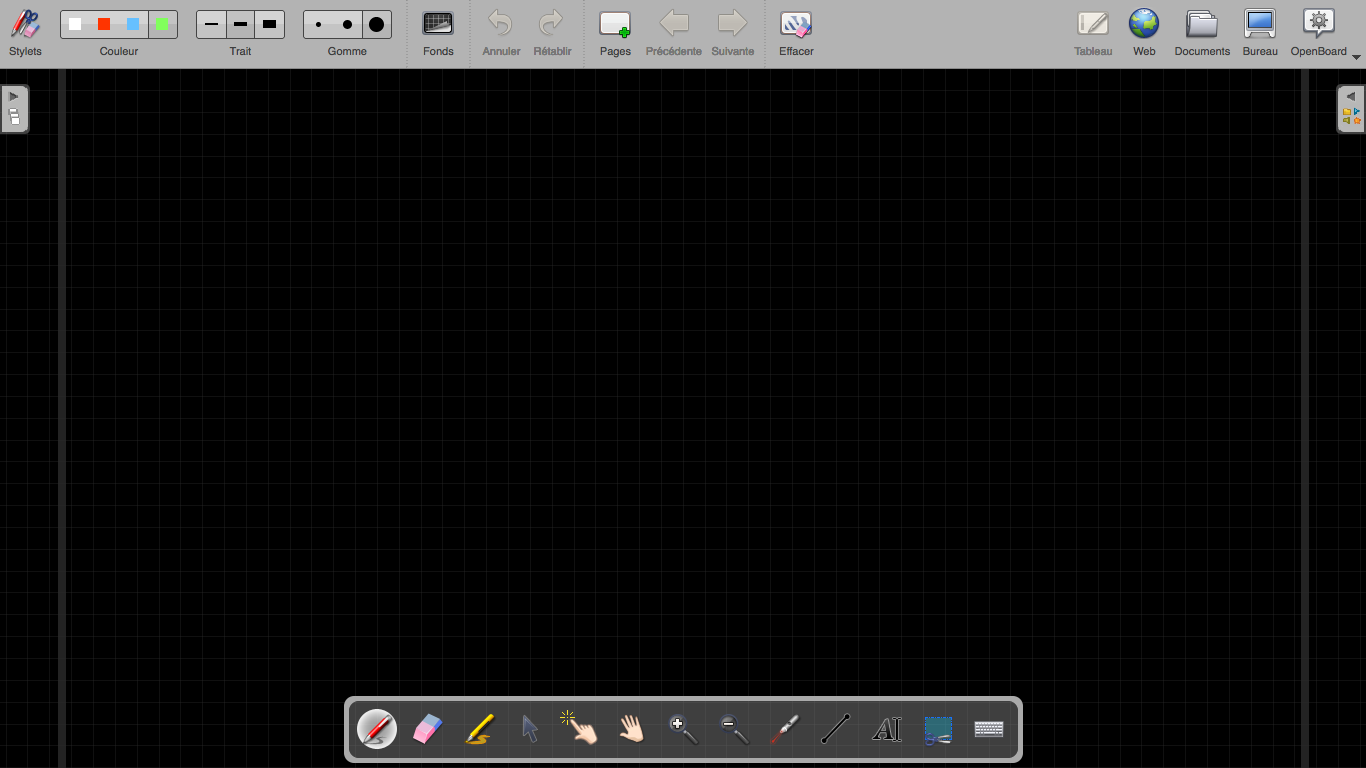
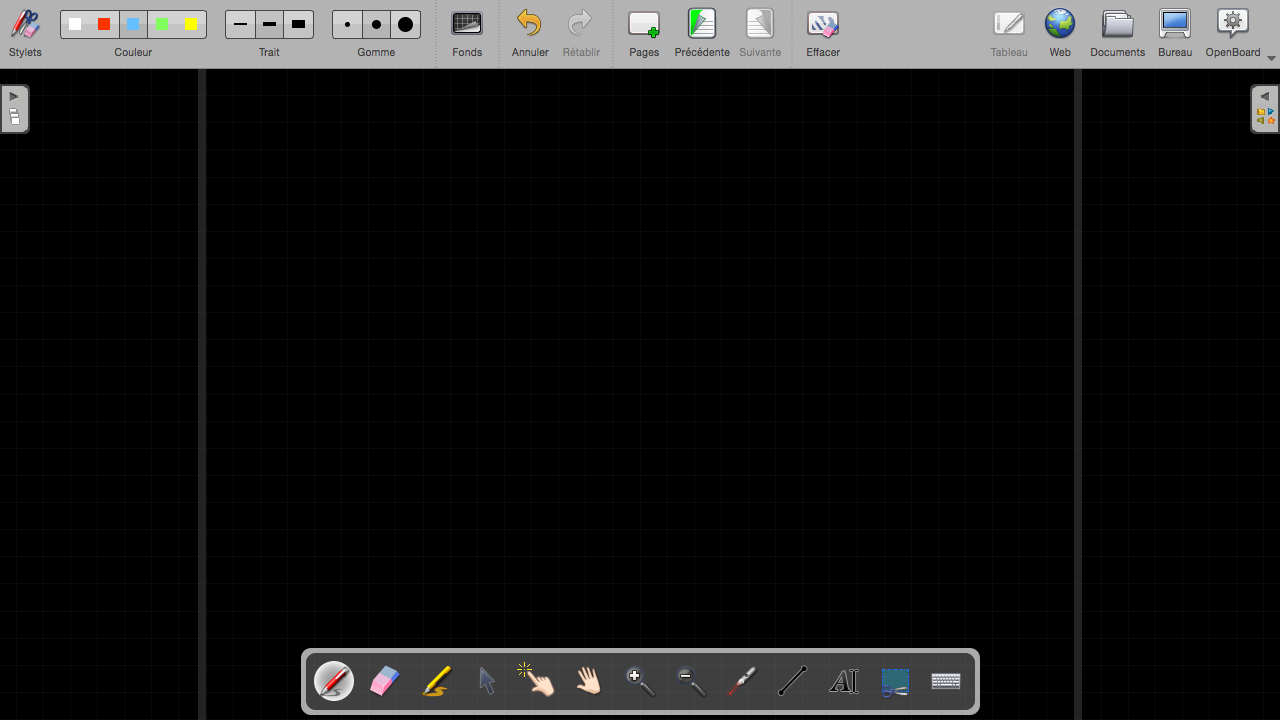
Nouveaux contenus du 9 juin

Changed region(s): [[0.0, 0.0, 1.0, 1.0], [0.2188, 0.8861, 0.7812, 1.0]]

diff --git a/app/about.html b/app/about.html
@@ -68,16 +68,21 @@
       <div class="">
         <h2>A propos d'OpenBoard</h2>
         <p>OpenBoard est un tableau blanc interactif open source et multiplateforme. OpenBoard est conçu principalement pour être utilisé dans des écoles ou universités et est compatible avec toutes sortes de configurations (tableau numérique interactif, tablette graphique + projecteur, ...).</p>
-        <p>OpenBoard est un fork de Open-Sankoré, qui lui-même était basé sur Uniboard.</p>
+
+        <h3>D'où vient il ?</h3>
+        <p>OpenBoard est un fork de Open-Sankoré 2.0, qui lui-même était basé sur Uniboard. Ce fork a été créé pour recentrer le logiciel sur son cœur de métier originel, à savoir le travail de l'enseignant dans sa classe, ceci en privilégiant la simplicité d’utilisation. L’évolution de ce logiciel aura donc lieu dans le respect de ces deux principes de base.</p>
         
         <h3>Multiplateforme</h3>
         <p>OpenBoard est compatible avec Windows (7+), OS X (10.9+) et Linux (testé sur Ubuntu 14.04 et 16.04).</p>
 
-        <h3>Qui est impliqué?</h3>
-        <p>Actuellement, OpenBoard est maintenu par le département de l'instruction publique (DIP) de l'État de Genève, en Suisse. L'Université de Lausanne, à l'origine de la première version d'Uniboard en 2003 a récemment rejoint le projet.</p>
-        <p>L'intérêt pour OpenBoard croît rapidement en Suisse, mais aussi en Europe et en Amérique du Nord. Une association à but non lucratif va bientôt être créée. Cet association aura pour but de promouvoir OpenBoard et son développement open source, et de rassembler les parties intéressées.</p> 
+        <h3>Qui est impliqué ?</h3>
+        <p>Actuellement, OpenBoard est maintenu par le département de l'instruction publique (DIP) de l'État de Genève, en Suisse. L'Université de Lausanne, à l'origine de la première version d'Uniboard en 2003 a récemment rejoint le projet via une aide logistique et financière.</p>
+        <p>Une rencontre a eu lieu en juin 2016 entre des représentants des unis de Lausanne, Neuchâtel, Fribourg et Genève, des départements de l’instruction publique du canton de Genève et du Jura ainsi que de divers établissements du canton de Vaud (Suisse) pour réfléchir ensemble à l’évolution souhaitée d’OpenBoard.</p>
 
-        <p class="timestamp">3 juin 2016</p>
+        <h3>Quel futur ?</h3>
+        <p>L'intérêt pour OpenBoard croît rapidement en Suisse, mais aussi en Europe et en Amérique du Nord et il serait souhaitable qu'une association à but non lucratif soit créée. Cet association aurait pour but de promouvoir OpenBoard et son développement open source, et de rassembler les parties intéressées. Ceci en respectant les deux principes de base qui ont amenés à la création de ce fork: le recentrage du logiciel sur le travail de l'enseignant dans sa classe, en privilégiant la simplicité d’utilisation.</p>
+
+        <p class="timestamp">Mis à jour le 9 juin 2016</p>
       </div>
     </div>
 

diff --git a/app/about.en.html b/app/about.en.html
@@ -68,16 +68,21 @@
       <div class="">
         <h2>About OpenBoard</h2>
         <p>OpenBoard is an open source cross-platform interactive whiteboard application designed primarily for use in schools and universities. It can be used both with interactive whiteboards or in a dual-screen setup with a pen-tablet display and a beamer.</p>
-        <p>It was originally forked from Open-Sankoré, which was itself based on Uniboard.</p>
+
+        <h3>Where is it from ?</h3>
+        <p>OpenBoard was originally forked from Open-Sankoré 2.0, which was itself based on Uniboard. This fork was created to refocus the software on its original core functionalities and values, that is the work of a teacher in a classroom, privileging the ease of use. The evolution of this software will therefore take place in accordance with these core principles.</p>
         
         <h3>Cross-platform</h3>
         <p>Supported platforms are Windows (7+), OS X (10.9+) and Linux (tested on Ubuntu 14.04 and 16.04).</p>
 
         <h3>Who is involved?</h3>
-        <p>Currently, OpenBoard is maintained by the Education Department (DIP) of the Canton of Geneva, in Switzerland. The University of Lausanne, who developped the original Uniboard software in 2003 has recently joined the effort.</p>
-        <p>Interest is growing fast across Switzerland but also in Europe and North America. A swiss law non-profit organisation is to be created shortly. This organisation will promote the open source development of OpenBoard and foster collaboration of interested parties.</p>
+        <p>Currently, OpenBoard is maintained by the Education Department (DIP) of the canton of Geneva, in Switzerland. The University of Lausanne, who developped the original Uniboard software in 2003 has recently joined the effort by means of a logistical and financial contribution.</p>
+        <p>A meeting was held in June 2016 between representatives from the universities of Lausanne, Neuchâtel, Fribourg and Geneva, the departments of Education from the cantons of Geneva and Jura as well as various institutions from the canton of Vaud (Switzerland) to together reflect on the desired evolution of OpenBoard.</p>
 
-        <p class="timestamp">June 3rd 2016</p>
+        <h3>What's next ?</h3>
+        <p>Interest is growing fast across Switzerland but also in Europe and North America. A swiss law non-profit organisation should be created. This organisation would promote OpenBoard and its open source development and foster collaboration between interested parties. This in respect of the core principles which led to the creation of this fork, that is the refocusing on the work of a teacher in a classroom, privileging the ease of use.</p>
+
+        <p class="timestamp">June 9th 2016</p>
       </div>
     </div>
 

diff --git a/app/index.html b/app/index.html
@@ -74,7 +74,7 @@
       <div class="row marketing">
         <h4>Qu'est-ce qu'OpenBoard ?</h4>
         <p>OpenBoard est un tableau blanc interactif open source et multiplateforme. Il est conçu principalement pour être utilisé dans des écoles ou universités et est compatible avec toutes sortes de configurations (tableau numérique interactif, tablette graphique + projecteur, ...).</p>
-        <p>OpenBoard est un fork de Open-Sankoré, qui lui-même était basé sur Uniboard.</p>
+        <p>OpenBoard est un fork de Open-Sankoré 2.0, qui lui-même était basé sur Uniboard.</p>
       </div>
 
       <div id="carousel-example-generic" class="carousel slide" data-ride="carousel">
@@ -88,10 +88,10 @@
         <!-- Wrapper for slides -->
         <div class="carousel-inner" role="listbox">
           <div class="item active">
-            <img src="images/openboard-screenshot-white.png" alt="L'interface d'OpenBoard avec un fond blanc quadrillé">
+            <img src="images/openboard-screenshot-white-panels.png" alt="L'interface d'OpenBoard avec un fond blanc quadrillé">
           </div>
           <div class="item">
-            <img src="images/openboard-screenshot-black.png" alt="L'interface d'OpenBoard avec un fond noir">
+            <img src="images/openboard-screenshot-black-hello.png" alt="L'interface d'OpenBoard avec un fond noir">
           </div>
           <div class="item">
             <img src="images/openboard-screenshot-white-annoted.png" alt="Un cours annoté sur fond blanc quadrillé">

diff --git a/app/index.en.html b/app/index.en.html
@@ -74,7 +74,7 @@
       <div class="row marketing">
         <h4>What is OpenBoard ?</h4>
         <p>OpenBoard is an open source cross-platform interactive whiteboard application designed primarily for use in schools and universities. It can be used both with interactive whiteboards or in a dual-screen setup with a pen-tablet display and a beamer.</p>
-        <p>OpenBoard was originally forked from Open-Sankoré, which was itself based on Uniboard.</p>
+        <p>OpenBoard was originally forked from Open-Sankoré 2.0, which was itself based on Uniboard.</p>
       </div>
 
       <div id="carousel-example-generic" class="carousel slide" data-ride="carousel">
@@ -88,10 +88,10 @@
         <!-- Wrapper for slides -->
         <div class="carousel-inner" role="listbox">
           <div class="item active">
-            <img src="images/openboard-screenshot-white.png" alt="OpenBoard User Interface using a white grid background">
+            <img src="images/openboard-screenshot-white-panels.png" alt="OpenBoard User Interface using a white grid background">
           </div>
           <div class="item">
-            <img src="images/openboard-screenshot-black.png" alt="OpenBoard User Interface using a black background">
+            <img src="images/openboard-screenshot-black-hello.png" alt="OpenBoard User Interface using a black background">
           </div>
           <div class="item">
             <img src="images/openboard-screenshot-white-annoted.png" alt="A typical course on OpenBoard">
